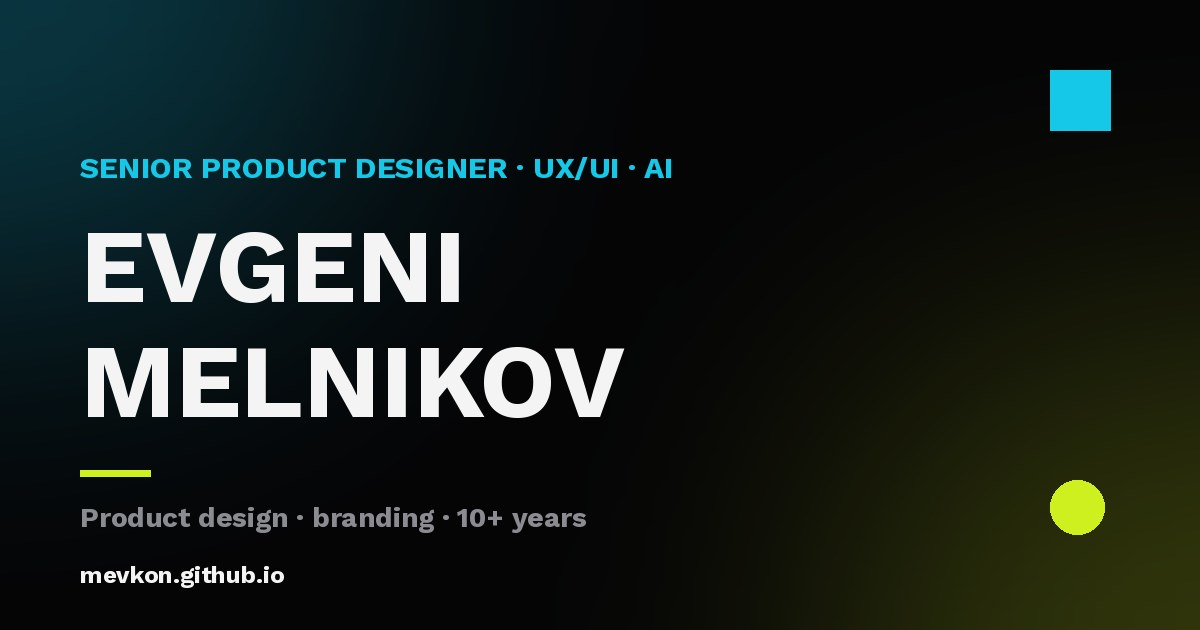
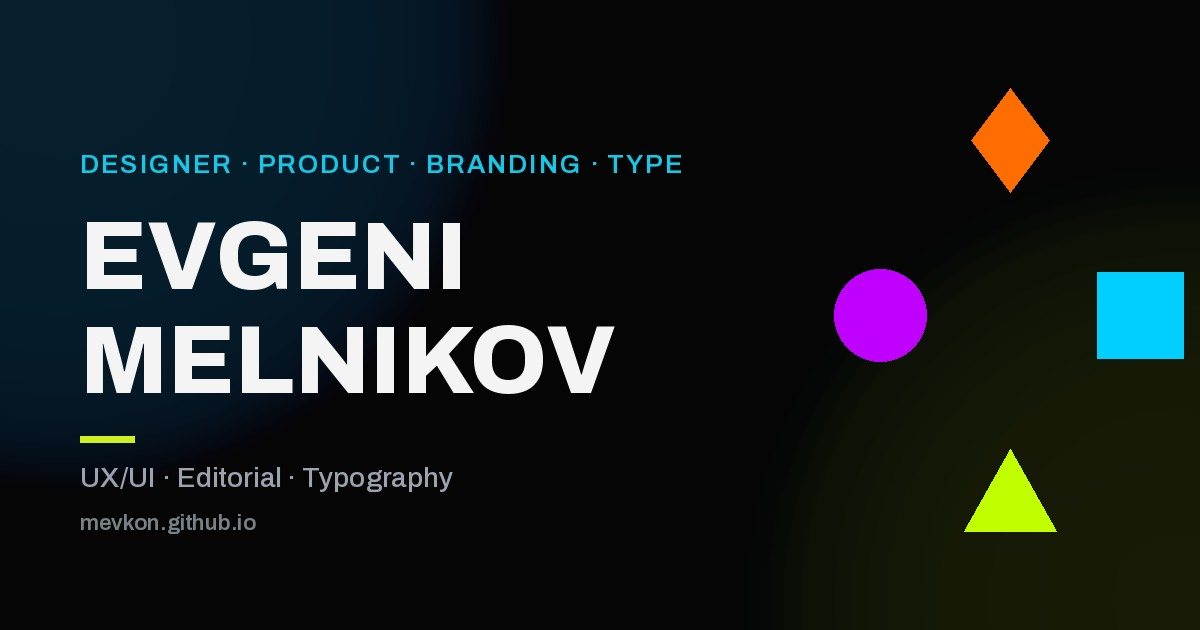
Add files via upload

diff --git a/index.html b/index.html
@@ -3,20 +3,20 @@
 <head>
   <meta charset="UTF-8" />
   <meta name="viewport" content="width=device-width, initial-scale=1.0" />
-  <title>Evgeni Melnikov — Senior Product Designer</title>
-  <meta name="description" content="Evgeni Melnikov — Senior Product Designer. UX/UI, AI-assisted design, visual design and branding. 10+ years of experience across B2B, B2C and SaaS." />
+  <title>Evgeni Melnikov — Product, UX/UI &amp; Brand Designer</title>
+  <meta name="description" content="Evgeni Melnikov — full-spectrum designer. Product, UX/UI, branding, and editorial/typographic design. 10+ years across B2B, B2C and SaaS." />
 
   <!-- Open Graph / превью ссылки в соцсетях -->
   <meta property="og:type" content="website" />
   <meta property="og:url" content="https://mevkon.github.io/" />
-  <meta property="og:title" content="Evgeni Melnikov — Senior Product Designer" />
-  <meta property="og:description" content="UX/UI, AI-assisted design and branding. 10+ years across B2B, B2C and SaaS." />
+  <meta property="og:title" content="Evgeni Melnikov — Product, UX/UI &amp; Brand Designer" />
+  <meta property="og:description" content="Full-spectrum designer — product, UX/UI, branding and typography. 10+ years across B2B, B2C and SaaS." />
   <meta property="og:image" content="https://mevkon.github.io/images/og.jpg" />
   <meta property="og:image:width" content="1200" />
   <meta property="og:image:height" content="630" />
   <meta name="twitter:card" content="summary_large_image" />
-  <meta name="twitter:title" content="Evgeni Melnikov — Senior Product Designer" />
-  <meta name="twitter:description" content="UX/UI, AI-assisted design and branding. 10+ years across B2B, B2C and SaaS." />
+  <meta name="twitter:title" content="Evgeni Melnikov — Product, UX/UI &amp; Brand Designer" />
+  <meta name="twitter:description" content="Full-spectrum designer — product, UX/UI, branding and typography. 10+ years across B2B, B2C and SaaS." />
   <meta name="twitter:image" content="https://mevkon.github.io/images/og.jpg" />
 
   <!-- Иконка сайта (favicon) -->
@@ -178,8 +178,11 @@
     section { padding: 84px 0; }
     section[id] { scroll-margin-top: 90px; }
     .sec-head { display: flex; align-items: center; gap: 16px; margin-bottom: 14px; }
-    .sec-bar { width: 26px; height: 16px; background: var(--cyan); }
-    .sec-bar.lime { background: var(--lime); }
+    .sec-bar { width: 26px; height: 16px; background: var(--logo-cyan); }
+    .sec-bar.b-cyan { background: var(--logo-cyan); }
+    .sec-bar.b-lime { background: var(--logo-lime); }
+    .sec-bar.b-orange { background: var(--logo-orange); }
+    .sec-bar.b-purple { background: var(--logo-purple); }
     .sec-head .label { color: var(--dim); }
     .sec-title {
       font-family: var(--display); font-weight: 800;
@@ -239,7 +242,7 @@
     /* Обложка проекта (фото) */
     .project-media {
       position: relative;
-      aspect-ratio: 16 / 10;
+      aspect-ratio: 16 / 9;
       overflow: hidden;
       /* фирменный градиент — виден, пока фото нет */
       background:
@@ -250,18 +253,12 @@
       width: 100%; height: 100%; object-fit: cover; display: block;
       transition: transform 0.45s ease;
     }
-    .project-body { padding: 24px 26px 28px; display: flex; flex-direction: column; flex-grow: 1; }
-    .project .cat { font-family: var(--display); font-weight: 700; font-size: var(--fs-label); letter-spacing: 0.16em; text-transform: uppercase; color: var(--cyan); margin-bottom: 9px; }
-    .project h3 { font-family: var(--display); font-weight: 700; font-size: 1.25rem; letter-spacing: 0.01em; margin-bottom: 11px; line-height: 1.2; }
-    .project p { color: var(--dim); font-size: var(--fs-sm); margin-bottom: 18px; flex-grow: 1; }
-    .project .tags { display: flex; flex-wrap: wrap; gap: 7px; margin-bottom: 20px; }
+    .project-body { padding: 18px 24px 20px; display: flex; flex-direction: column; flex-grow: 1; }
+    .project .cat { font-family: var(--display); font-weight: 700; font-size: var(--fs-label); letter-spacing: 0.16em; text-transform: uppercase; color: var(--cyan); margin-bottom: 7px; }
+    .project h3 { font-family: var(--display); font-weight: 700; font-size: 1.25rem; letter-spacing: 0.01em; margin-bottom: 8px; line-height: 1.2; }
+    .project p { color: var(--dim); font-size: var(--fs-sm); margin-bottom: 14px; flex-grow: 1; }
+    .project .tags { display: flex; flex-wrap: wrap; gap: 7px; margin-bottom: 0; }
     .project .t { font-size: 0.74rem; font-weight: 600; color: var(--dim); padding: 3px 9px; border: 1px solid var(--line); border-radius: 4px; }
-    .project .more {
-      font-family: var(--display); font-weight: 700; font-size: var(--fs-label);
-      letter-spacing: 0.12em; text-transform: uppercase; color: var(--text);
-      transition: color 0.2s ease;
-    }
-    .project:hover .more { color: var(--lime); }
 
     /* ---------- CONTACT ---------- */
     .contact { text-align: center; padding: 110px 0; }
@@ -358,7 +355,7 @@
       <div class="shape rhomb"></div>
       <div class="shape tri"></div>
 
-      <p class="hero-role label">Senior Product Designer · UX/UI · AI</p>
+      <p class="hero-role label">Designer · Product · Branding · Type</p>
       <h1>
         <span class="line">Evgeni</span>
         <span class="line outline">Melnikov</span>
@@ -371,14 +368,15 @@
 
     <!-- ============ ABOUT ============ -->
     <section id="about" class="reveal">
-      <div class="sec-head"><span class="sec-bar"></span><span class="label">Introduction</span></div>
+      <div class="sec-head"><span class="sec-bar b-cyan"></span><span class="label">Introduction</span></div>
       <div class="as-grid">
         <div class="as-bio">
           <h2 class="sec-title">About me</h2>
         <p>
-          Senior Product Designer working end-to-end — from early research and
-          wireframing to the final, polished UI. I turn complex products into
-          interfaces that feel simple and human.
+          A full-spectrum designer working end-to-end — from early research and
+          wireframing to polished product UI, and from brand identity to editorial
+          and typographic posters. I turn complex products into interfaces that feel
+          simple and human, and ideas into visuals that get noticed.
         </p>
         <p>
           I work best alongside engineers — a technical mindset lets me speak their
@@ -401,6 +399,8 @@
             <span class="chip">Product Design</span>
             <span class="chip">Design Systems</span>
             <span class="chip">Branding &amp; Identity</span>
+            <span class="chip">Typography</span>
+            <span class="chip">Poster Design</span>
             <span class="chip">User Research</span>
             <span class="chip">AI-Assisted Design</span>
             <span class="chip">Wireframing</span>
@@ -418,7 +418,8 @@
           <div class="chips g-ai">
             <span class="chip">Claude</span>
             <span class="chip">Gemini (Nano Banana)</span>
-            <span class="chip">ChatGPT</span>
+            <span class="chip">ChatGPT (DALL·E)</span>
+            <span class="chip">Adobe Firefly</span>
             <span class="chip">Midjourney</span>
           </div>
         </div>
@@ -428,7 +429,7 @@
     <!-- ============ WORK ============ -->
     <!-- Обложки проектов: images/<имя>.jpg, формат 16:10. Заменить — загрузить файл с тем же именем. -->
     <section id="work" class="reveal">
-      <div class="sec-head"><span class="sec-bar"></span><span class="label">Selected work</span></div>
+      <div class="sec-head"><span class="sec-bar b-purple"></span><span class="label">Selected work</span></div>
       <h2 class="sec-title">Projects</h2>
       <div class="work-grid">
 
@@ -445,7 +446,6 @@
               One soft-UI system, every screen reading as a single calm product.
             </p>
             <div class="tags"><span class="t">Product Design</span><span class="t">Design System</span><span class="t">Soft UI</span></div>
-            <span class="more">View case →</span>
           </div>
         </a>
 
@@ -463,7 +463,6 @@
               listening experience.
             </p>
             <div class="tags"><span class="t">Figma</span><span class="t">UX/UI</span><span class="t">Branding</span></div>
-            <span class="more">View case ↗</span>
           </div>
         </a>
 
@@ -481,7 +480,6 @@
               screens and 30+ reusable components.
             </p>
             <div class="tags"><span class="t">Figma</span><span class="t">Design System</span><span class="t">Dashboard</span></div>
-            <span class="more">View case ↗</span>
           </div>
         </a>
 
@@ -499,7 +497,6 @@
               Shekel-gold accent — backed by user flows, wireframes and hi-fi prototypes.
             </p>
             <div class="tags"><span class="t">Fintech</span><span class="t">Case Study</span><span class="t">Prototyping</span></div>
-            <span class="more">View case ↗</span>
           </div>
         </a>
 
@@ -508,7 +505,7 @@
 
     <!-- ============ BRANDING ============ -->
     <section id="branding" class="reveal">
-      <div class="sec-head"><span class="sec-bar lime"></span><span class="label">Identity</span></div>
+      <div class="sec-head"><span class="sec-bar b-lime"></span><span class="label">Identity</span></div>
       <h2 class="sec-title">Branding</h2>
       <div class="work-grid brand-grid">
         <a class="project featured" href="dominator-case.html">
@@ -524,7 +521,6 @@
               voice across every touchpoint.
             </p>
             <div class="tags"><span class="t">Logo &amp; Identity</span><span class="t">Brand System</span><span class="t">Signage &amp; Print</span></div>
-            <span class="more">View case →</span>
           </div>
         </a>
       </div>
@@ -532,7 +528,7 @@
 
     <!-- ============ POSTERS ============ -->
     <section id="posters" class="reveal">
-      <div class="sec-head"><span class="sec-bar"></span><span class="label">Graphic Design</span></div>
+      <div class="sec-head"><span class="sec-bar b-orange"></span><span class="label">Graphic Design</span></div>
       <h2 class="sec-title">Posters</h2>
       <div class="pcar-row">
         <button class="fb-nav pcar-prev" id="pcarPrev" aria-label="Previous posters">&#8249;</button>
@@ -559,7 +555,7 @@
 
     <!-- ============ BOOK / EDITORIAL ============ -->
     <section id="book" class="reveal">
-      <div class="sec-head"><span class="sec-bar lime"></span><span class="label">Editorial</span></div>
+      <div class="sec-head"><span class="sec-bar b-cyan"></span><span class="label">Editorial</span></div>
       <h2 class="sec-title">Saul Bass — Book</h2>
       <p class="editorial-intro">A personal editorial project — a book on Saul Bass and his idea of design that moves. In Russian. Use the arrows to flip through, click a spread to zoom.</p>
       <div class="flipbook">
@@ -590,9 +586,9 @@
   <!-- ============ CONTACT ============ -->
   <section id="contact" class="contact reveal">
     <div class="wrap">
-      <div class="sec-head" style="justify-content:center"><span class="sec-bar lime"></span><span class="label">Contact</span></div>
+      <div class="sec-head" style="justify-content:center"><span class="sec-bar b-purple"></span><span class="label">Contact</span></div>
       <h2>Let's work</h2>
-      <p>Open to product design roles and collaborations. The fastest way to reach me is email.</p>
+      <p>Open to product, UX/UI and branding work — full projects or collaborations. The fastest way to reach me is email.</p>
       <div class="contact-links">
         <a href="mailto:evgmel12@gmail.com" class="btn btn-primary">evgmel12@gmail.com</a>
         <a href="https://www.linkedin.com/in/evgeni-melnikov" target="_blank" rel="noopener" class="btn btn-ghost">LinkedIn ↗</a>
